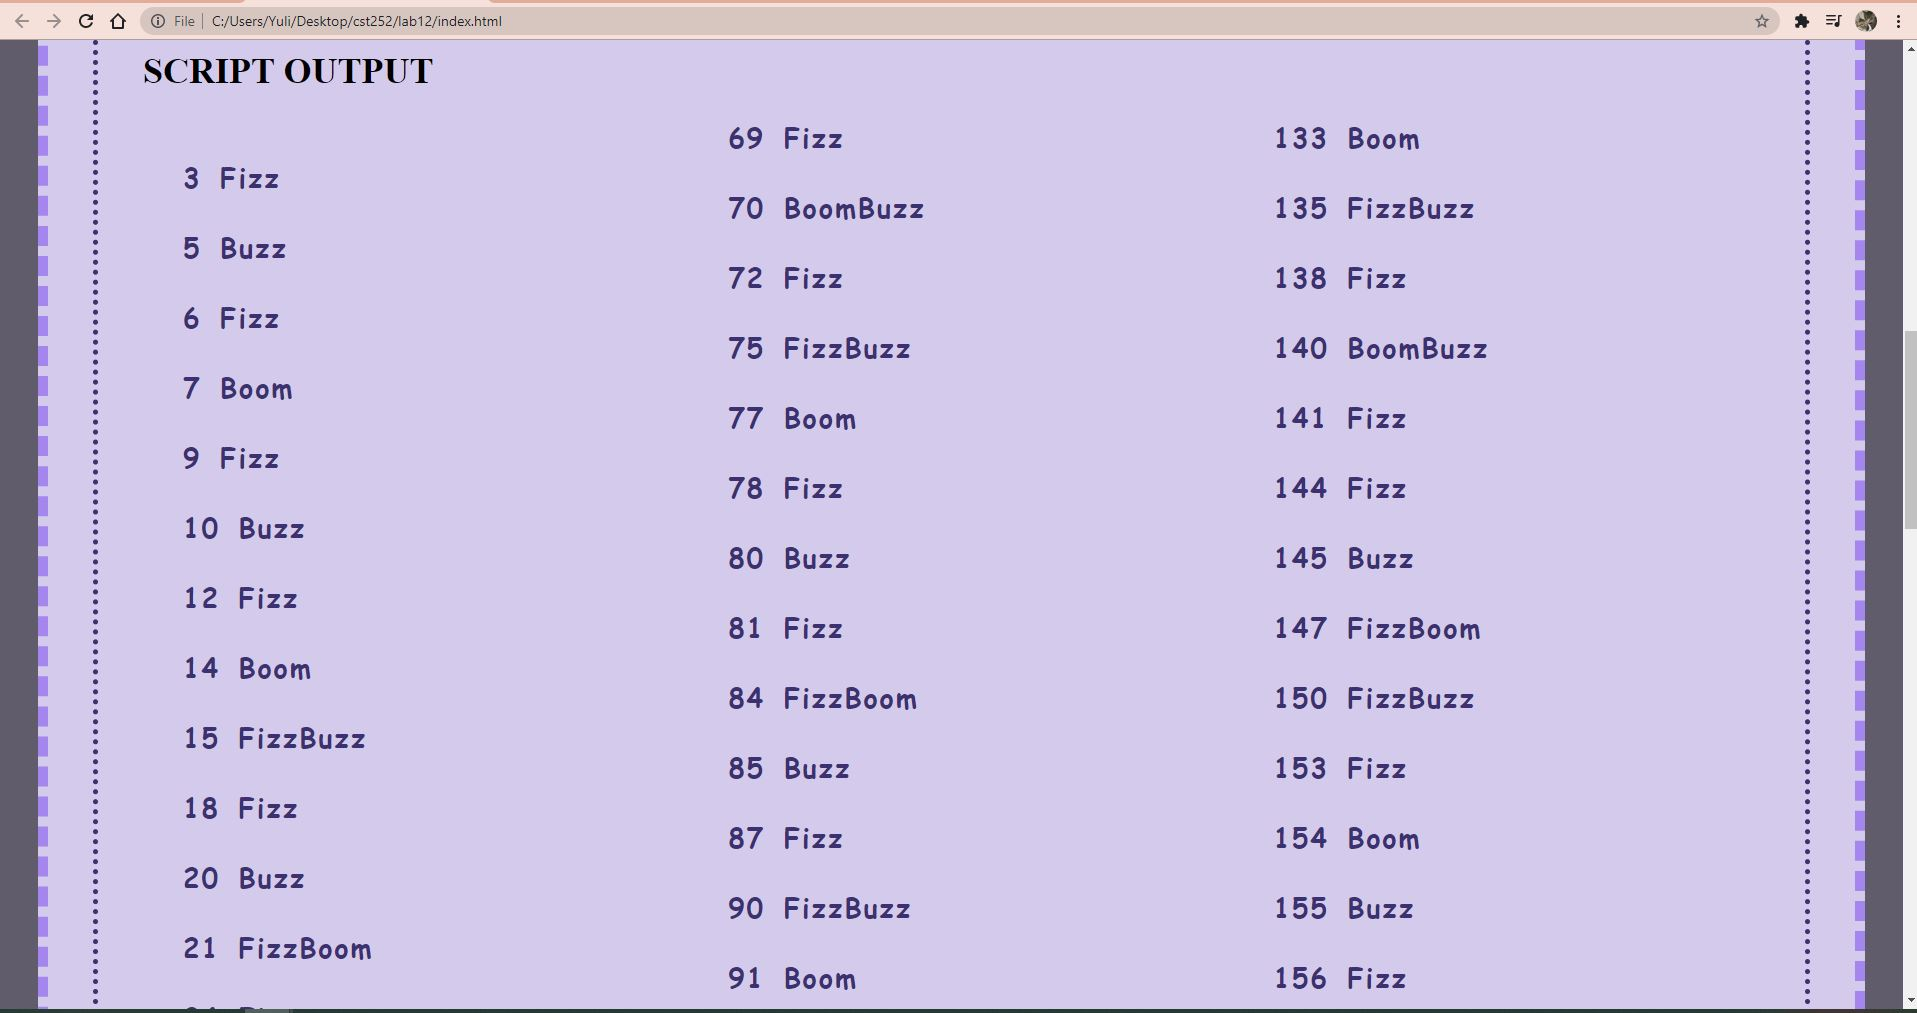
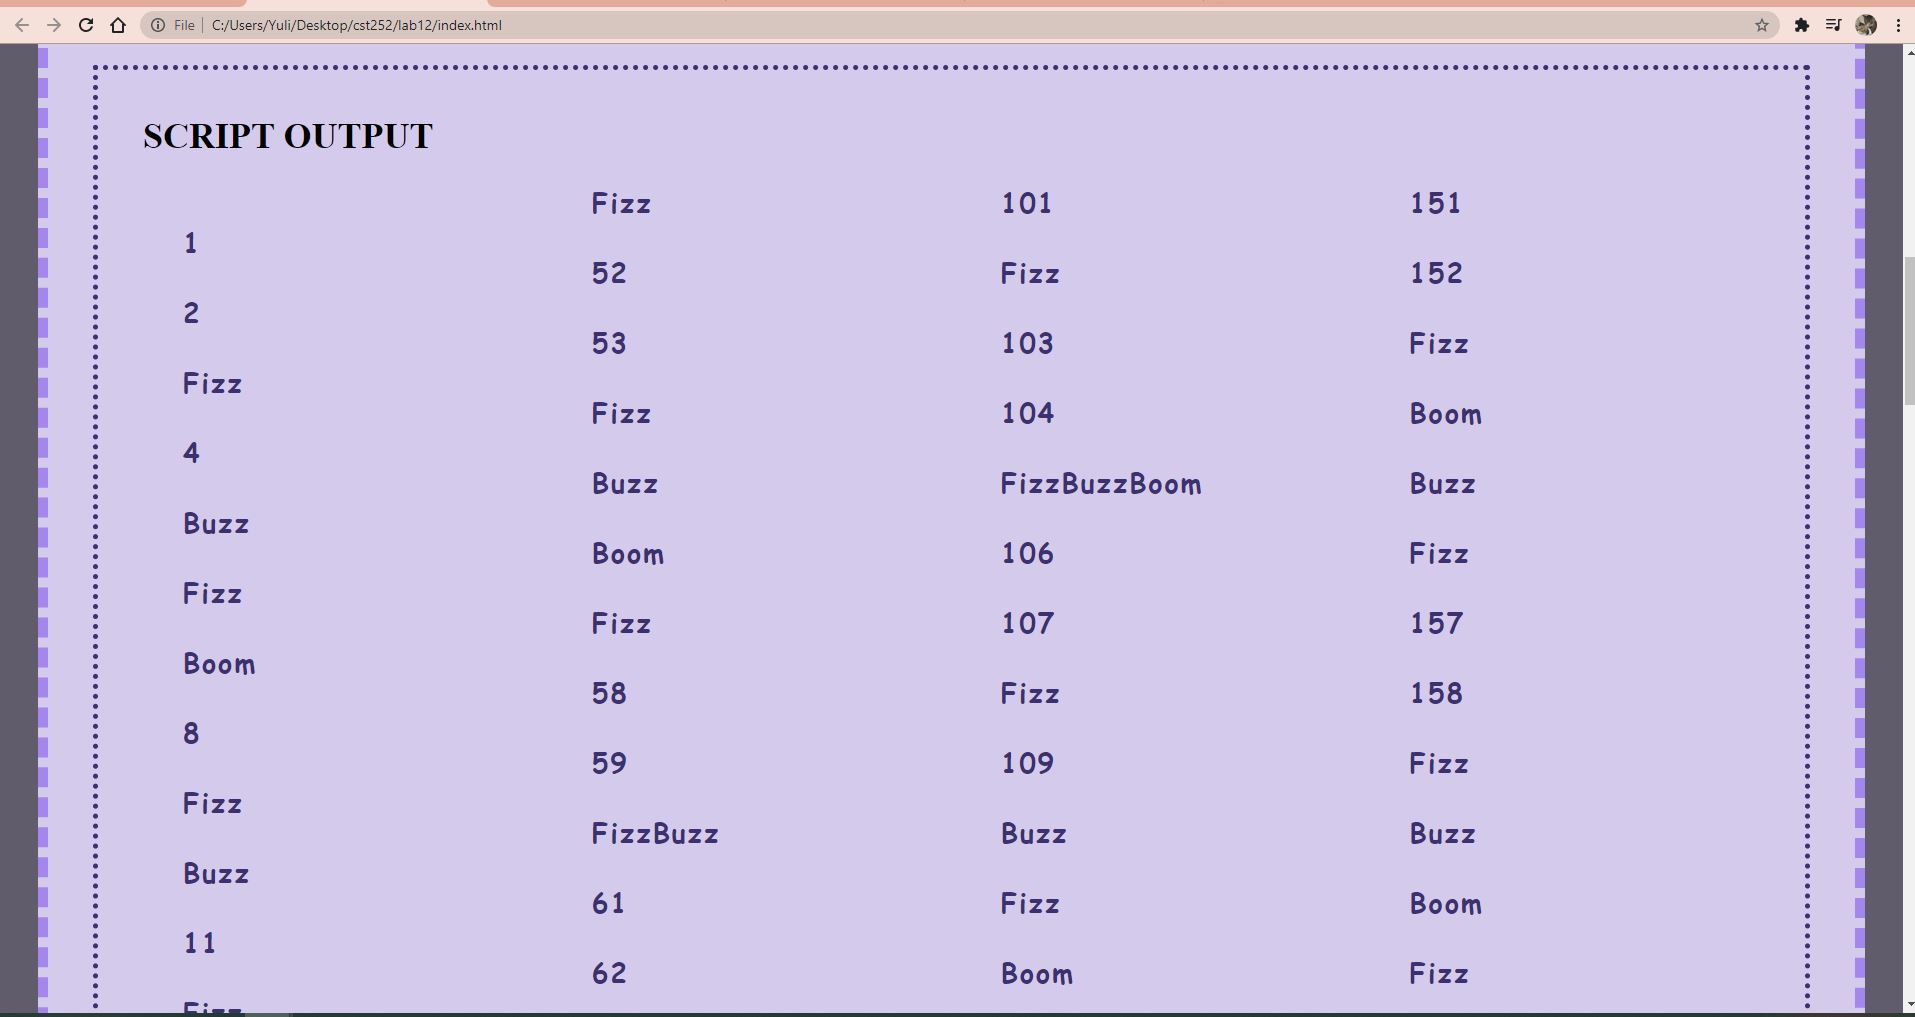
Fixed Lab 11

diff --git a/lab12/js/loops.js b/lab12/js/loops.js
@@ -17,47 +17,49 @@
 
     //If the number is a multiples of 3, 5 and 7 , print “FizzBuzzBoom” instead of the number.
     if (i%105 ==0) {
-        printForNumber.innerHTML = i + " FizzBuzzBoom";
+        printForNumber.innerHTML = " FizzBuzzBoom";
         outputEl.appendChild(printForNumber);
         console.log("FizzBuzzBoom");
 
     //If the number is a multiples of 7 and 5, print “BoomBuzz” instead of the number.
     } else if (i%35 == 0) {
-      printForNumber.innerHTML = i + " BoomBuzz";
+      printForNumber.innerHTML = " BoomBuzz";
       outputEl.appendChild(printForNumber);
         console.log("BoomBuzz");
 
     //If the number is a multiples of 3 and 7, print “FizzBuzz” instead of the number.
     } else if (i%21 == 0) {
-      printForNumber.innerHTML = i + " FizzBoom";
+      printForNumber.innerHTML = " FizzBoom";
       outputEl.appendChild(printForNumber);
         console.log("FizzBoom");
 
     //If the number is a multiples of 3 and 5, print “FizzBuzz” instead of the number.
     } else if (i%15 == 0) {
-      printForNumber.innerHTML = i + " FizzBuzz";
+      printForNumber.innerHTML = " FizzBuzz";
       outputEl.appendChild(printForNumber);
         console.log("FizzBuzz");
 
     //If the number is a multiple of 3, print “Fizz” instead of the number.
     } else if (i%3 == 0) {
-      printForNumber.innerHTML = i + " Fizz";
+      printForNumber.innerHTML = " Fizz";
       outputEl.appendChild(printForNumber);
       console.log("Fizz");
 
     //If the number is a multiple of 5, print “Buzz” instead of the number.
     } else if (i%5 == 0) {
-      printForNumber.innerHTML = i + " Buzz";
+      printForNumber.innerHTML = " Buzz";
       outputEl.appendChild(printForNumber);
       console.log("Buzz");
 
     //If the number is a multiple of 7, print “Boom” instead of the number.
     } else if (i%7 == 0) {
-      printForNumber.innerHTML = i + " Boom";
+      printForNumber.innerHTML = " Boom";
       outputEl.appendChild(printForNumber);
       console.log("Boom");
 
     } else {
-        console.log(i);
+      printForNumber.innerHTML = i;
+      outputEl.appendChild(printForNumber);
+      console.log(i);
     }
   }

diff --git a/lab12/index.html b/lab12/index.html
@@ -38,7 +38,8 @@
 
 		<div id="outline">
 			<h2 class="color-change">Script Output</h2>
-			<div id="output"></div>
+			<div id="output">
+			</div>
 
 		</div><br>
 

diff --git a/lab12/css/lab.css b/lab12/css/lab.css
@@ -54,7 +54,7 @@ h1,h2,h3,h4,h5 {
 div#output {
   font-family: 'Akaya Kanadaka', cursive;
   margin: 30px;
-  columns: 3;
+  columns: 4;
 }
 
 div>h1 {
